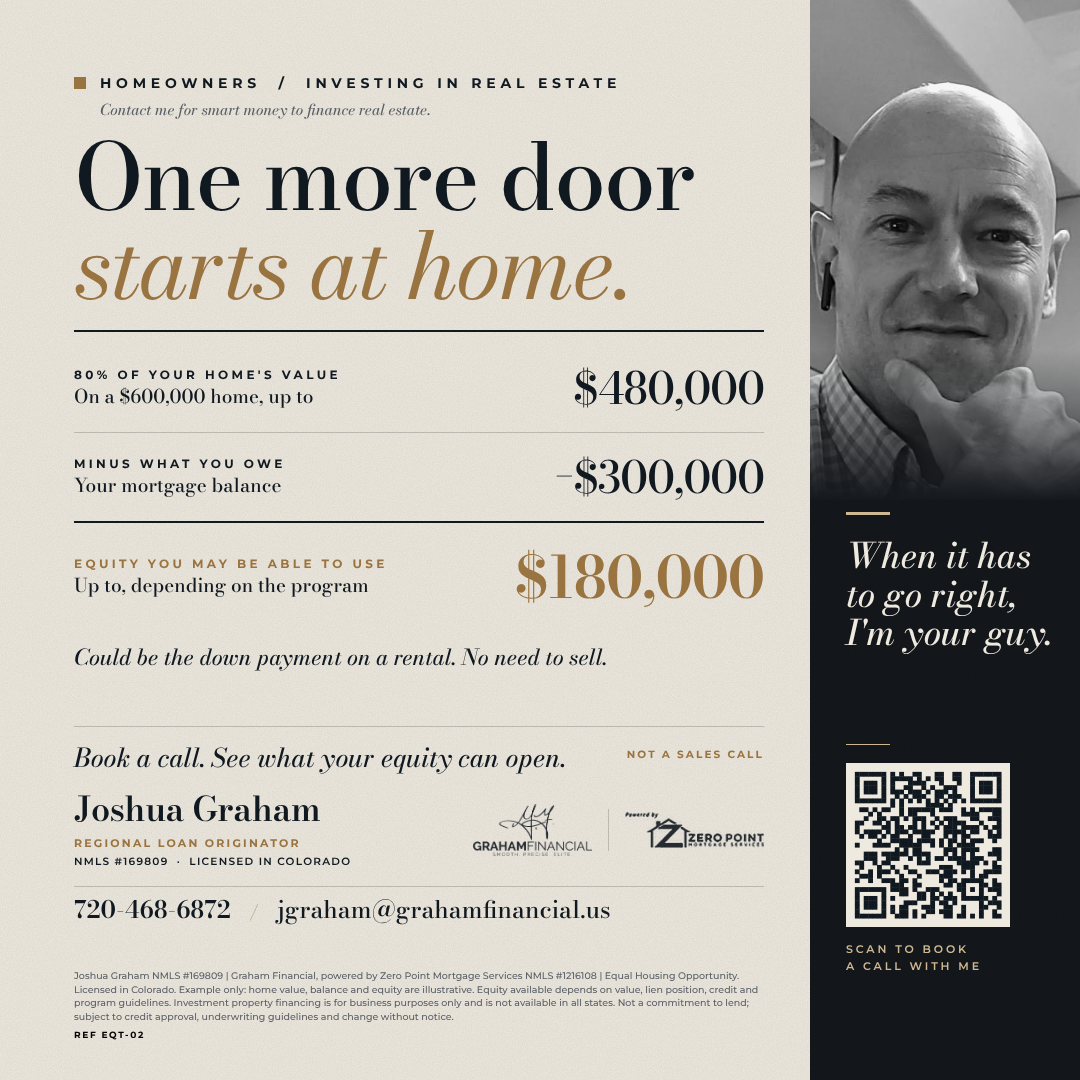
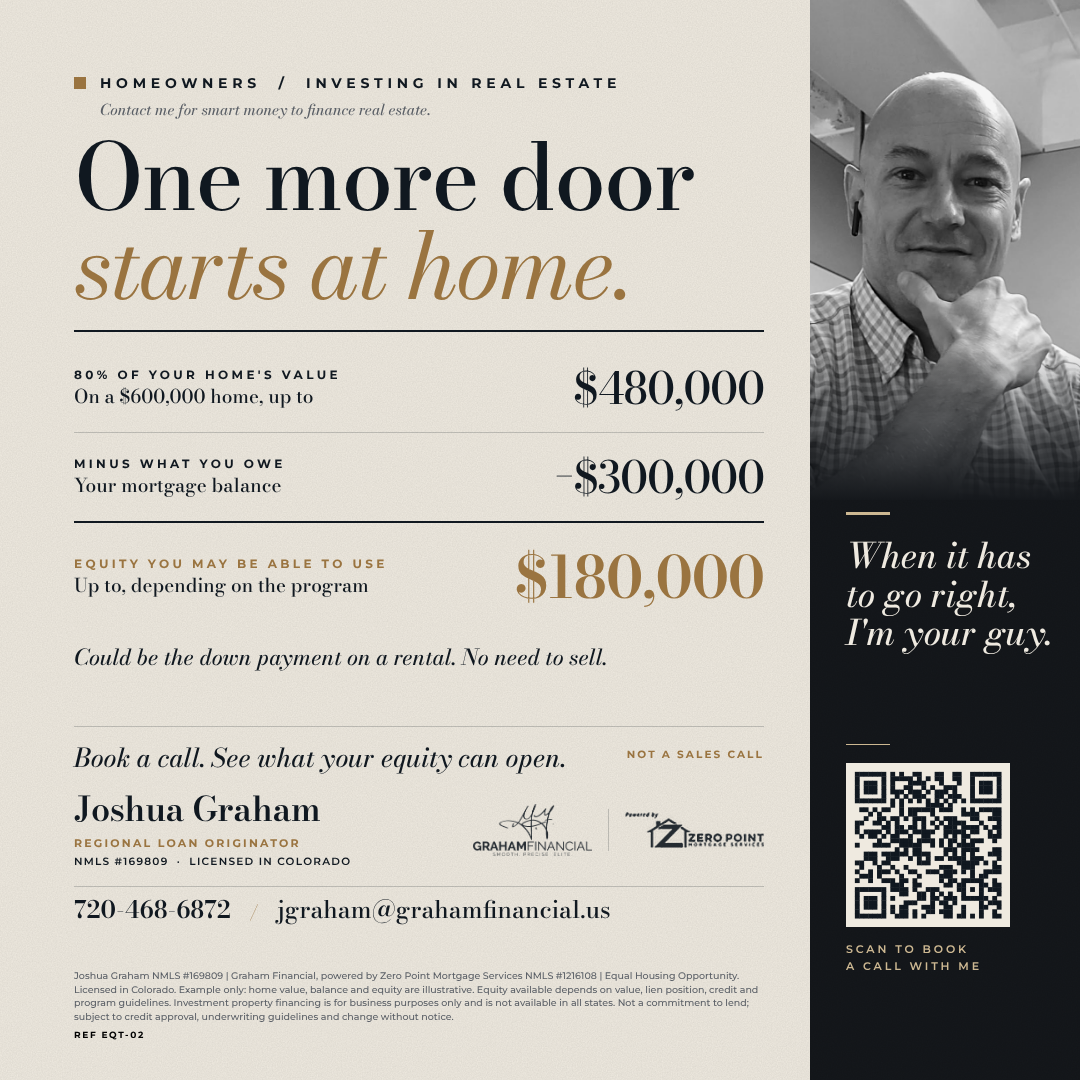
Bond Campaign batch 2: PAY-04, DWN-03, WLT-03, EQT-03, CRD-01; plaid crop fix
Claude-Session: https://claude.ai/code/session_01BCcskEaN45pwtrM4t2VKHx

Changed region(s): [[0.7333, 0.0306, 1.0, 0.4278], [0.8861, 0.0, 0.9472, 0.0306], [0.825, 0.0, 0.8556, 0.0306]]

diff --git a/src/smart-money/data.js b/src/smart-money/data.js
@@ -61,6 +61,7 @@ export const PAIN_POINTS = [
   { id: "low-rate-locked", label: "Has a low-rate first mortgage they won't give up, but needs the equity" },
   { id: "priced-out", label: "Wants to buy or move, but the monthly payment doesn't make sense at today's prices" },
   { id: "no-down-payment", label: "Could afford the payment, but hasn't saved the down payment and closing costs" },
+  { id: "trust", label: "Wants a lender they can trust before they start" },
   { id: "portfolio-audit", label: "Owns rentals that could be cash flowing with a better loan structure" },
 ];
 
@@ -1236,6 +1237,86 @@ I'm a call away to run your real numbers. It's not a sales call. Book a consulta
       title: "One more door starts at home.",
       hook: "Your equity can be your next down payment.",
       points: ["Value, times 80%, minus what you owe", "On a $600K home with $300K owed, up to about $180,000", "It can fund a rental and you don't have to sell"],
+      cta: "Book a consultation call with me. It's not a sales call. When it has to go right, I'm your guy. Save my info.",
+    },
+  },
+  {
+    ref: "PAY-04", campaign: "bond", lane: "pay", bank: "consumer", name: "Rent Goes Up. Your Loan Doesn't. (payment)", lender: "N/A — call; route to the matching payment, DPA, seller-credit or equity scenario",
+    audience: "consumer", license: "required", flyer: "/smart-money/flyers/PAY-04.png", footer: "pay2",
+    cta: `Book a call and I'll run YOUR numbers. It's not a sales call. When it has to go right, I'm your guy. Save my info. 👉 ${BRAND.booking}`,
+    painPoints: ["priced-out", "renting"], magnet: "book-5", skool: "Homebuyers",
+    highlights: ["Rent after 5 yearly raises of 5% goes from $2,000 to about $2,553", "Principal and interest on a fixed loan is the same every year", "A call, not a sales call"],
+    notes: "Payment-bearing (Reg Z): the pay2 footer MUST travel with every post. 5% raises are an assumption and the flyer footer says so (2000 x 1.05^5 = 2,552.56). Taxes and insurance can change; do not say the total payment is fixed.",
+    short: `Rent goes up. Your loan doesn't.\n\nRent today: about $2,000 a month. After 5 yearly raises of 5% it's about $2,553. Principal and interest on a $300K home with a fixed loan: about $1,961, the same every year.\n\nThe 5% is an example, and taxes and insurance can change. Book a call and I'll run YOUR numbers. It's not a sales call.`,
+    long: `Rent is a number someone else sets, and it tends to go up.\n\nHere's an illustration, assuming raises of 5% a year:\n\n- Rent today: $2,000 a month.\n- After 5 yearly raises: about $2,553 a month for the same place.\n- Principal and interest on a fixed 30-year loan on a $300,000 home: about $1,961 a month, the same every year.\n\nThe 5% is an assumption, not a prediction. Taxes and insurance can change, and owning won't fit everyone, so let's look at your real numbers.\n\nBook a call and I'll run YOUR numbers. It's not a sales call. When it has to go right, I'm your guy. Save my info.`,
+    video: {
+      title: "Rent goes up. Your loan doesn't.",
+      hook: "Look at these numbers.",
+      points: ["Rent $2,000 today, about $2,553 after 5 raises of 5% (assumption)", "Principal and interest on a fixed loan stays the same", "Taxes and insurance can change, so run your real numbers"],
+      cta: "Book a consultation call with me. It's not a sales call. When it has to go right, I'm your guy. Save my info.",
+    },
+  },
+  {
+    ref: "DWN-03", campaign: "bond", lane: "cash", bank: "consumer", name: "You Don't Need $80,000 Down (first-time buyers)", lender: "N/A — call; route to the matching payment, DPA, seller-credit or equity scenario",
+    audience: "consumer", license: "required", flyer: "/smart-money/flyers/DWN-03.png", footer: "pay",
+    cta: `Book a call and I'll show you what you'd bring. It's not a sales call. When it has to go right, I'm your guy. Save my info. 👉 ${BRAND.booking}`,
+    painPoints: ["no-down-payment", "renting"], magnet: "book-5", skool: "Homebuyers",
+    highlights: ["20% down on a $400K home is $80,000, and most buyers don't need that", "3% down on that home is $12,000", "Assistance can cover much of the rest for buyers who qualify"],
+    notes: "Down payment percent and amount: the pay footer ($400K, 3% down, loan example, APR) MUST travel with every post. Assistance depends on program, eligibility and availability; never promise $0.",
+    short: `You don't need $80,000 down.\n\nOn a $400K home, 20% down is $80,000. That's what most people think it takes. 3% down on that same home is $12,000, and with down payment assistance, for buyers who qualify, help can cover much of the rest.\n\nNot every buyer or home qualifies. Book a call and I'll show you what you'd bring. It's not a sales call.`,
+    long: `Most renters assume they need 20% down. On a $400,000 home that's $80,000, and it keeps people renting for years.\n\n- 20% down on a $400K home: $80,000.\n- 3% down on the same home: $12,000. Low down payment loans exist.\n- With assistance, if you qualify: help can cover much of the rest, and in the right scenario you may bring very little.\n\nPrograms and availability vary and not every buyer or home qualifies, so let's look at yours.\n\nBook a call and I'll show you what you'd bring. It's not a sales call. When it has to go right, I'm your guy. Save my info.`,
+    video: {
+      title: "You don't need $80,000 down.",
+      hook: "You've been told you need 20% down.",
+      points: ["20% down on a $400K home is $80,000", "3% down on that home is $12,000", "Assistance can cover much of the rest if you qualify"],
+      cta: "Book a consultation call with me. It's not a sales call. When it has to go right, I'm your guy. Save my info.",
+    },
+  },
+  {
+    ref: "WLT-03", campaign: "bond", lane: "wealth", bank: "consumer", name: "Rent Builds Their Equity (wealth building)", lender: "N/A — call; route to the matching payment, DPA, seller-credit or equity scenario",
+    audience: "consumer", license: "required", flyer: "/smart-money/flyers/WLT-03.png", footer: "pay2",
+    cta: `Book a call and I'll run both sides with YOUR numbers. It's not a sales call. When it has to go right, I'm your guy. Save my info. 👉 ${BRAND.booking}`,
+    painPoints: ["renting"], magnet: "book-5", skool: "Homebuyers",
+    highlights: ["5 years of rent at $2,000 is $120,000 and builds your landlord's equity", "On a $300K home, the loan balance drops about $16,700 in 5 years", "A call, not a sales call"],
+    notes: "Payment-bearing (Reg Z): pay2 footer MUST travel with every post. Not an apples-to-apples cost comparison; the flyer note says owners also pay taxes, insurance and upkeep. Keep that note when quoting. Plaid photo.",
+    short: `Rent builds their equity.\n\n5 years of rent at $2,000 is $120,000, and you've built $0 of equity with it. On a $300K home, the loan balance drops about $16,700 in the first 5 years, before any appreciation.\n\nOwners also pay taxes, insurance and upkeep, so let's run both sides. Book a call and I'll run YOUR numbers. It's not a sales call.`,
+    long: `A rent check builds your landlord's equity, not yours.\n\n- 5 years of rent at $2,000 a month, no raises assumed: $120,000.\n- Equity you built with it: $0.\n- As an owner of a $300,000 home with a fixed loan, your loan balance drops about $16,700 in the same 5 years, before any appreciation.\n\nOwners also pay taxes, insurance and upkeep, and owning won't fit everyone. That's why I'd rather walk through both sides with YOUR numbers.\n\nBook a call. It's not a sales call. When it has to go right, I'm your guy. Save my info.`,
+    video: {
+      title: "Rent builds their equity.",
+      hook: "Look at these numbers.",
+      points: ["5 years of rent at $2,000 is $120,000", "Equity you built with it is $0", "As an owner, about $16,700 of loan paid down in 5 years"],
+      cta: "Book a consultation call with me. It's not a sales call. When it has to go right, I'm your guy. Save my info.",
+    },
+  },
+  {
+    ref: "EQT-03", campaign: "bond", lane: "equity", bank: "consumer", name: "Keep Your Low Rate. Use Your Equity. (past clients)", lender: "N/A — call; route to the matching payment, DPA, seller-credit or equity scenario",
+    audience: "consumer", license: "required", flyer: "/smart-money/flyers/EQT-03.png", footer: "consumer",
+    cta: `Book a call and let's see what your equity can open. It's not a sales call. When it has to go right, I'm your guy. Save my info. 👉 ${BRAND.booking}`,
+    painPoints: ["low-rate-locked", "equity-trapped"], magnet: "book-5", skool: "Homebuyers",
+    highlights: ["Your first mortgage stays untouched", "A separate loan can tap the equity, depending on value, credit and program", "A call, not a sales call"],
+    notes: "Past clients and homeowners with a low first-mortgage rate. No rate, payment or down payment percent on the flyer. 'Often no refinance needed' is hedged: it applies to a separate second-lien product. Business-purpose investment financing is not available in all states. Get the RISE matrix before quoting.",
+    short: `Keep your low rate. Use your equity.\n\nIf you locked in a low rate, you probably don't want to give it up. You may not have to. On a $600K home with $300K owed, there's $300K of equity, and a separate loan against it can often leave your first mortgage untouched.\n\nHow much depends on your value, credit and the program. Book a call and let's see what your equity can open. It's not a sales call.`,
+    long: `A lot of homeowners are sitting on a low rate they don't want to lose, and equity they aren't using.\n\n- Your first mortgage: the low rate you already have, untouched.\n- Your equity, in our example: a $600,000 home with $300,000 owed leaves $300,000.\n- What you can do: tap some of it with a separate loan, often with no refinance of your first mortgage.\n\nThe amount depends on your value, credit and the program, and investment property financing isn't available in every state.\n\nBook a call. It's not a sales call. When it has to go right, I'm your guy. Save my info.`,
+    video: {
+      title: "Keep your low rate. Use your equity.",
+      hook: "You don't have to give up your low rate.",
+      points: ["Your first mortgage stays exactly as it is", "A separate loan against your equity", "It depends on your value, credit and the program"],
+      cta: "Book a consultation call with me. It's not a sales call. When it has to go right, I'm your guy. Save my info.",
+    },
+  },
+  {
+    ref: "CRD-01", campaign: "bond", lane: "cred", bank: "consumer", name: "25 Years. One Call Away. (credibility)", lender: "N/A — call; route to the matching payment, DPA, seller-credit or equity scenario",
+    audience: "consumer", license: "required", flyer: "/smart-money/flyers/CRD-01.png", footer: "consumer",
+    cta: `Book a call whenever it's time. It's not a sales call. When it has to go right, I'm your guy. Save my info. 👉 ${BRAND.booking}`,
+    painPoints: ["trust"], magnet: "book-5", skool: "Homebuyers",
+    highlights: ["25 years in mortgage", "Licensed in Colorado, NMLS #169809", "Save my number: when it has to go right, I'm your guy"],
+    notes: "Credibility flyer: only facts he can back up (25 years, Colorado license, NMLS). Confirm the 25-year figure against his LinkedIn (profile says 20+). No testimonials; those need ZPM review. Plaid photo.",
+    short: `25 years in mortgage. One call away.\n\nI've been doing this through every rate cycle, and I'm licensed in Colorado. When it has to go right, I'm your guy. Save my number. You'll want it.\n\nBook a call whenever it's time. It's not a sales call.`,
+    long: `I've been in mortgage for 25 years, through every rate cycle there is. I'm licensed in Colorado, NMLS #169809, and when it's time to buy, sell or invest, I'd like to be the person you call first.\n\nNo pressure, no pitch. Just a consultation call where I run your real numbers and you decide what happens next.\n\nBook a call. It's not a sales call. When it has to go right, I'm your guy. Save my info.`,
+    video: {
+      title: "25 years. One call away.",
+      hook: "Look at these numbers.",
+      points: ["25 years in mortgage, through every rate cycle", "Licensed in Colorado, NMLS #169809", "Save my number. You'll want it"],
       cta: "Book a consultation call with me. It's not a sales call. When it has to go right, I'm your guy. Save my info.",
     },
   },

diff --git a/src/smart-money/contentKit.js b/src/smart-money/contentKit.js
@@ -160,6 +160,41 @@ export const KIT = [
         ["It could be the down payment on a rental, and you don't have to sell.", "The amount depends on your value, credit and the program.", "Investment property financing isn't available in every state."],
         "Book a consultation call with me. It's not a sales call. When it has to go right, I'm your guy. Save my info."),
       caption:`One more door starts at home. Let's see what your equity can open. Not a sales call. 👉 ${BOOK}` },
+    { id:"v-r-raise", kind:"Video", title:"Rent goes up. Your loan doesn't.", steps:["Recorded","Posted"],
+      text: vid("Look at these numbers.",
+        "Your rent is a number someone else sets, and it tends to go up.",
+        "A fixed loan's principal and interest stays the same every year.",
+        ["Rent $2,000 today, about $2,553 after five 5% raises. That 5% is an assumption.", "Principal and interest about $1,961 on a $300K home.", "Taxes and insurance can change, so run your real numbers."],
+        "Book a consultation call with me. It's not a sales call. When it has to go right, I'm your guy. Save my info."),
+      caption:`Rent goes up. Your loan doesn't. Let's run your numbers. Not a sales call. 👉 ${BOOK}` },
+    { id:"v-r-down", kind:"Video", title:"You don't need $80,000 down", steps:["Recorded","Posted"],
+      text: vid("You don't need $80,000 down.",
+        "You've been told you need 20% down, and that keeps you renting.",
+        "On a $400K home 20% is $80,000, but 3% is $12,000, and assistance can cover much of the rest for buyers who qualify.",
+        ["20% down on $400K is $80,000.", "3% down on that same home is $12,000.", "Help can cover much of the rest if you qualify, so let's see what you'd bring."],
+        "Book a consultation call with me. It's not a sales call. When it has to go right, I'm your guy. Save my info."),
+      caption:`You don't need $80,000 down. Let's see what you'd bring. Not a sales call. 👉 ${BOOK}` },
+    { id:"v-r-theirs", kind:"Video", title:"Rent builds their equity", steps:["Recorded","Posted"],
+      text: vid("Look at these numbers.",
+        "Five years of rent at $2,000 is $120,000, and you built $0 of equity.",
+        "On a $300K home your loan balance drops about $16,700 in the same five years, before any appreciation.",
+        ["Show the two numbers side by side.", "Say plainly that owners also pay taxes, insurance and upkeep.", "It won't fit everyone, so let's run both sides with your numbers."],
+        "Book a consultation call with me. It's not a sales call. When it has to go right, I'm your guy. Save my info."),
+      caption:`Rent builds their equity. Let's run both sides. Not a sales call. 👉 ${BOOK}` },
+    { id:"v-r-keeprate", kind:"Video", title:"Keep your low rate. Use your equity.", steps:["Recorded","Posted"],
+      text: vid("Keep your low rate.",
+        "You locked in a low rate and you don't want to give it up.",
+        "You may not have to. A separate loan can tap your equity and leave the first mortgage alone.",
+        ["Your first mortgage stays untouched.", "A $600K home with $300K owed leaves $300K of equity, in our example.", "How much depends on your value, credit and the program."],
+        "Book a consultation call with me. It's not a sales call. When it has to go right, I'm your guy. Save my info."),
+      caption:`Keep your low rate. Use your equity. Let's see what it can open. Not a sales call. 👉 ${BOOK}` },
+    { id:"v-r-25", kind:"Video", title:"25 years. One call away.", steps:["Recorded","Posted"],
+      text: vid("I've been doing this for 25 years.",
+        "Most people only call a lender when they're already in a hurry.",
+        "Call before you need to. Save my number, and when it has to go right, I'm your guy.",
+        ["25 years in mortgage, through every rate cycle.", "Licensed in Colorado, NMLS #169809.", "A consultation call, not a sales call."],
+        "Book a consultation call with me. It's not a sales call. When it has to go right, I'm your guy. Save my info."),
+      caption:`25 years in mortgage. Save my number. Not a sales call. 👉 ${BOOK}` },
   ]},
   { id:"teams", title:"Team leaders: I train your team", note:"Send to team leads and brokers.", items:[
     { id:"v-t-train", kind:"Video", title:"Your team has a prospecting problem", steps:["Recorded","Sent to 5 team leads"],

diff --git a/dist/index.html b/dist/index.html
@@ -7,7 +7,7 @@
     <meta name="theme-color" content="#1e6e4a" />
     <link rel="manifest" href="/manifest.json" />
     <title>Get Unlocked Producer</title>
-    <script type="module" crossorigin src="/assets/main-13ddd78f.js"></script>
+    <script type="module" crossorigin src="/assets/main-dabd60e6.js"></script>
     <link rel="modulepreload" crossorigin href="/assets/client-aa6f12be.js">
     <link rel="modulepreload" crossorigin href="/assets/supabase-3cfa4bd6.js">
   </head>

diff --git a/tools/flyers/gen_elite.py b/tools/flyers/gen_elite.py
@@ -144,7 +144,7 @@ CARDS = {
                  ("YOUR LOAN BALANCE DROPS, IN 5 YEARS", "About, before any appreciation. That&#39;s yours", "$16,700", True)],
         receipt_note="Your rent can rise. Your principal and interest won&#39;t.",
         rpad=22, rule_top=330, cta="Book a call. I&#39;ll run your real numbers.", foot=FOOT_PAY2, foot_px=9),
-    "DWN-02": dict(palette="scarlet", kicker="COLORADO RENTERS &nbsp;/&nbsp; BUYING A HOME", **{**COMMON, "photo": dict(file="joshua-plaid.jpg", h=500, size=1250, x=-176, y=-45)},
+    "DWN-02": dict(palette="scarlet", kicker="COLORADO RENTERS &nbsp;/&nbsp; BUYING A HOME", **{**COMMON, "photo": dict(file="joshua-plaid.jpg", h=500, size=900, x=-93, y=-20)},
         h1=["Who pays your"], h1_accent="closing costs?", h1_px=92,
         receipt=[("CLOSING COSTS, EXAMPLE", "Lender and title on a $400K home", "$7,000", False),
                  ("THE SELLER CAN PAY", "A 3% credit on that same home", "$12,000", False),
@@ -158,13 +158,48 @@ CARDS = {
                  ("SAME IDEA, BIGGER BASE", "Interest on savings vs. appreciation on the whole home", "30x", True)],
         receipt_note="Appreciation isn&#39;t guaranteed. Prices can fall.",
         rpad=22, rule_top=330, cta="Book a call. See what it could mean for you.", foot=FOOT_WEALTH + " Examples are illustrative: a 6% savings rate and 3% annual appreciation are assumptions, not predictions or offers.", foot_px=9.5),
-    "EQT-02": dict(palette="camel", kicker="HOMEOWNERS &nbsp;/&nbsp; INVESTING IN REAL ESTATE", **{**COMMON, "photo": dict(file="joshua-plaid.jpg", h=500, size=1250, x=-176, y=-45)},
+    "EQT-02": dict(palette="camel", kicker="HOMEOWNERS &nbsp;/&nbsp; INVESTING IN REAL ESTATE", **{**COMMON, "photo": dict(file="joshua-plaid.jpg", h=500, size=900, x=-93, y=-20)},
         h1=["One more door"], h1_accent="starts at home.", h1_px=92,
         receipt=[("80% OF YOUR HOME&#39;S VALUE", "On a $600,000 home, up to", "$480,000", False),
                  ("MINUS WHAT YOU OWE", "Your mortgage balance", "&minus;$300,000", False),
                  ("EQUITY YOU MAY BE ABLE TO USE", "Up to, depending on the program", "$180,000", True)],
         receipt_note="Could be the down payment on a rental. No need to sell.",
         rpad=22, rule_top=330, cta="Book a call. See what your equity can open.", foot=FOOT_EQ, foot_px=9.5),
+    "PAY-04": dict(palette="camel", kicker="COLORADO RENTERS &nbsp;/&nbsp; BUYING A HOME", **COMMON,
+        h1=["Rent goes up."], h1_accent="Your loan doesn&#39;t.", h1_px=92,
+        receipt=[("RENT TODAY", "A month, and it builds their equity", "$2,000", False),
+                 ("RENT AFTER 5 YEARLY RAISES OF 5%", "Same apartment, five years on", "$2,553", False),
+                 ("PRINCIPAL AND INTEREST, $300K HOME", "The same every year of a fixed loan", "$1,961", True)],
+        receipt_note="Illustration: 5% raises are an assumption. Taxes and insurance can change.",
+        rpad=22, rule_top=330, cta="Book a call. I&#39;ll run your real numbers.", foot=FOOT_PAY2 + " Rent growth of 5% a year is an assumption, not a prediction.", foot_px=9),
+    "DWN-03": dict(palette="peacock", kicker="FIRST-TIME BUYERS &nbsp;/&nbsp; COLORADO", **COMMON,
+        h1=["You don&#39;t need"], h1_accent="$80,000 down.", h1_px=92,
+        receipt=[("20% DOWN ON A $400K HOME", "What most people think it takes", "$80,000", False),
+                 ("3% DOWN ON THAT SAME HOME", "Low down payment loans exist", "$12,000", False),
+                 ("WITH ASSISTANCE, IF YOU QUALIFY", "Help can cover much of the rest", "Near $0", True)],
+        receipt_note="Not every buyer or home qualifies. Programs and availability vary.",
+        rpad=22, rule_top=330, cta="Book a call. I&#39;ll show you what you&#39;d bring.", foot=FOOT_PAY, foot_px=9),
+    "WLT-03": dict(palette="scarlet", kicker="COLORADO RENTERS &nbsp;/&nbsp; BUILDING WEALTH", **{**COMMON, "photo": dict(file="joshua-plaid.jpg", h=500, size=900, x=-93, y=-20)},
+        h1=["Rent builds"], h1_accent="their equity.", h1_px=92,
+        receipt=[("5 YEARS OF RENT, AT $2,000", "Flat, no raises assumed", "$120,000", False),
+                 ("EQUITY YOU BUILT WITH IT", "Your landlord builds theirs", "$0", False),
+                 ("OWNER, LOAN PAID DOWN IN 5 YEARS", "On a $300K home, before any appreciation", "$16,700", True)],
+        receipt_note="Owners also pay taxes, insurance and upkeep. Let&#39;s run both sides.",
+        rpad=22, rule_top=330, cta="Book a call. I&#39;ll run your real numbers.", foot=FOOT_PAY2, foot_px=9),
+    "EQT-03": dict(palette="peacock", kicker="PAST CLIENTS &nbsp;/&nbsp; HOMEOWNERS", **COMMON,
+        h1=["Keep your low rate."], h1_accent="Use your equity.", h1_px=76,
+        receipt=[("YOUR FIRST MORTGAGE", "The low rate you already have", "Untouched", False),
+                 ("YOUR EQUITY, EXAMPLE", "A $600K home with $300K owed", "$300,000", False),
+                 ("WHAT YOU CAN DO", "Often no refinance needed", "Both", True)],
+        receipt_note="A separate loan against your equity. Depends on value, credit and program.",
+        rpad=22, rule_top=330, cta="Book a call. See what your equity can open.", foot=FOOT_EQ, foot_px=9.5),
+    "CRD-01": dict(palette="burgundy", kicker="COLORADO &nbsp;/&nbsp; BUYING, SELLING, INVESTING", **{**COMMON, "photo": dict(file="joshua-plaid.jpg", h=500, size=900, x=-93, y=-20)},
+        h1=["25 years."], h1_accent="One call away.", h1_px=92,
+        receipt=[("YEARS IN MORTGAGE", "Through every rate cycle", "25", False),
+                 ("LICENSED IN", "Colorado, NMLS #169809", "CO", False),
+                 ("WHEN IT HAS TO GO RIGHT", "Save my number. You&#39;ll want it", "Call me", True)],
+        receipt_note="Book a call whenever it&#39;s time. No pressure, no pitch.",
+        rpad=22, rule_top=330, cta="Book a call. It&#39;s how we start.", foot=FOOT_CONSUMER, foot_px=9.5),
 }
 
 def qr_svg(url, px, dark, light):
